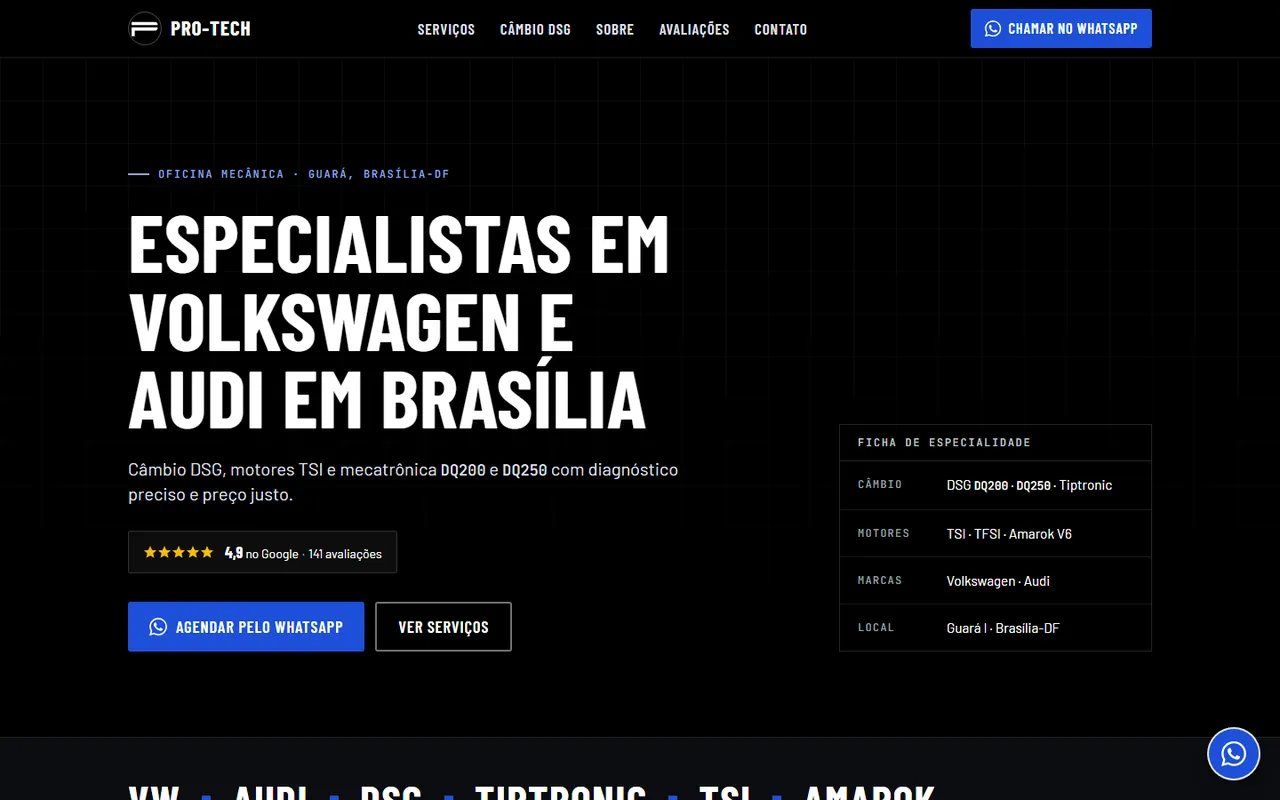
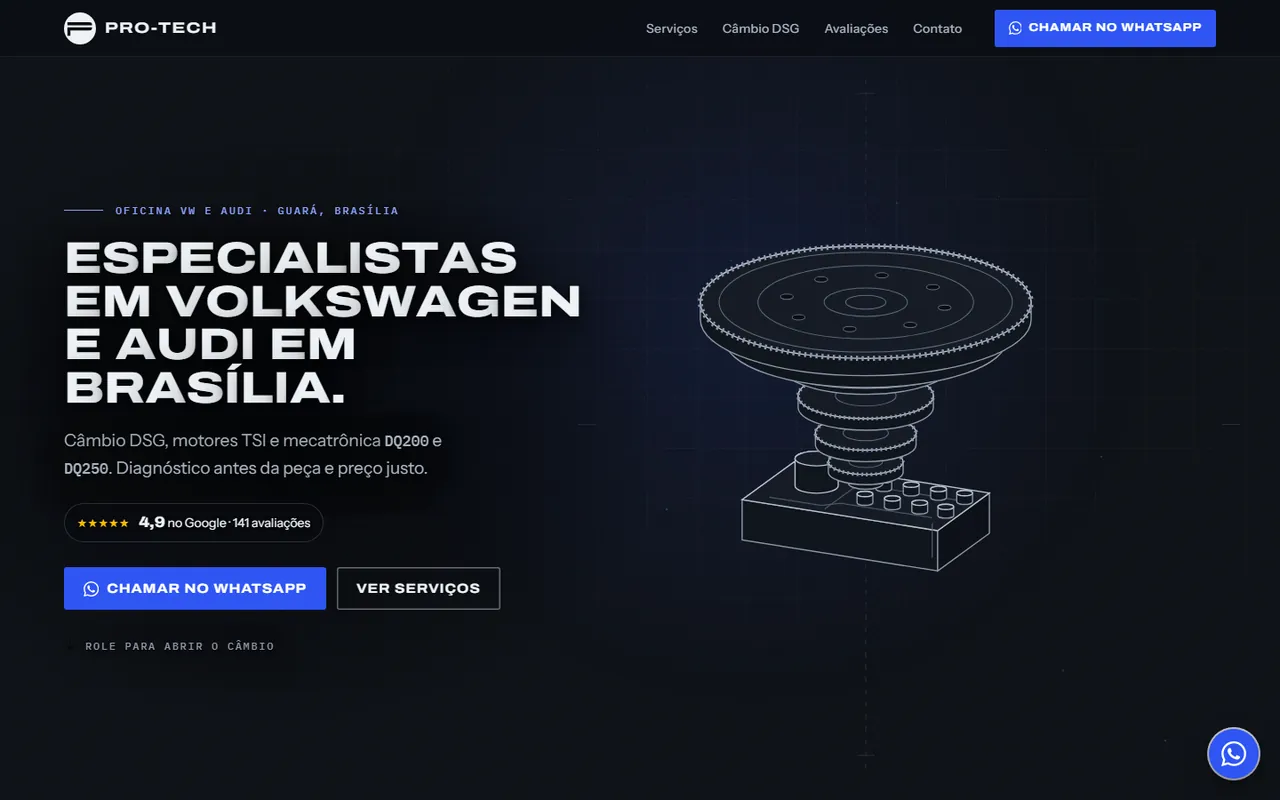
Atualiza o projeto PRO-TECH para a versão Site 10K

diff --git a/index.html b/index.html
@@ -380,7 +380,7 @@
             <figure class="projeto__midia projeto__midia--janela">
               <div class="janela">
                 <div class="janela__barra" aria-hidden="true"><span class="janela__pontos"><i></i><i></i><i></i></span><span class="janela__url">site-pro-tech.vercel.app</span></div>
-                <img src="imagens/projetos/protech.webp" width="1280" height="800" loading="lazy" decoding="async" alt="Página inicial do site da PRO-TECH, com o título Especialistas em Volkswagen e Audi em Brasília e um botão para agendar pelo WhatsApp.">
+                <img src="imagens/projetos/protech.webp" width="1280" height="800" loading="lazy" decoding="async" alt="Topo do site da PRO-TECH, com o título Especialistas em Volkswagen e Audi em Brasília e o desenho técnico de um câmbio em vista explodida.">
               </div>
             </figure>
             <div class="projeto__corpo">
@@ -390,7 +390,7 @@
                 <span class="projeto__contexto">Oficina automotiva</span>
               </p>
               <h3 class="projeto__titulo" id="titulo-protech">PRO-TECH</h3>
-              <p class="projeto__resumo">Site institucional para uma oficina especializada em Volkswagen e Audi em Brasília.</p>
+              <p class="projeto__resumo">Site de uma página para uma oficina especializada em Volkswagen e Audi em Brasília, com uma animação guiada pela rolagem.</p>
               <dl class="caso">
                 <div class="caso__item">
                   <dt>Problema</dt>
@@ -398,19 +398,19 @@
                 </div>
                 <div class="caso__item">
                   <dt>O que fiz</dt>
-                  <dd>Montei o site com Astro, Tailwind CSS e TypeScript, com páginas geradas a partir de dados tipados e um sistema de design com tokens.</dd>
+                  <dd>Criei a página em HTML, CSS e JavaScript puro, sem framework nem build. No topo, um câmbio DSG desenhado em traço técnico se desmonta conforme a rolagem até destacar a peça com defeito. Abaixo, tudo leva a uma só ação: mandar o sintoma pelo WhatsApp.</dd>
                 </div>
                 <div class="caso__item">
                   <dt>Resultado</dt>
-                  <dd>Layout responsivo testado com Playwright em seis larguras de tela, acessibilidade WCAG AA e nota 100/100 no Lighthouse.</dd>
+                  <dd>Nota 100 no Lighthouse nas quatro categorias, no celular e no computador, com cerca de 112 KB no total, porque a animação é desenhada em código, sem vídeo. Funciona com movimento reduzido e sem JavaScript.</dd>
                 </div>
               </dl>
               <ul class="tags" aria-label="Tecnologias principais">
-                <li>Astro</li><li>Tailwind CSS</li><li>TypeScript</li><li>Playwright</li>
+                <li>HTML</li><li>CSS</li><li>JavaScript</li><li>SEO local</li>
               </ul>
               <p class="projeto__links">
                 <a class="botao botao--primario" href="https://site-pro-tech.vercel.app/" target="_blank" rel="noopener noreferrer">Ver demonstração<svg class="icone" aria-hidden="true" viewBox="0 0 16 16" width="16" height="16"><path d="M5 3h8v8M13 3 3 13" fill="none" stroke="currentColor" stroke-width="1.6"/></svg><span class="sr-only">do site da PRO-TECH (abre em nova aba)</span></a>
-                <a class="botao botao--secundario" href="https://github.com/GSHolanda/site_ProTech" target="_blank" rel="noopener noreferrer">Ver código<svg class="icone" aria-hidden="true" viewBox="0 0 16 16" width="16" height="16"><path d="M5 3h8v8M13 3 3 13" fill="none" stroke="currentColor" stroke-width="1.6"/></svg><span class="sr-only">da PRO-TECH no GitHub (abre em nova aba)</span></a>
+                <a class="botao botao--secundario" href="https://github.com/GSHolanda/site_ProTech/tree/claude/site-10k" target="_blank" rel="noopener noreferrer">Ver código<svg class="icone" aria-hidden="true" viewBox="0 0 16 16" width="16" height="16"><path d="M5 3h8v8M13 3 3 13" fill="none" stroke="currentColor" stroke-width="1.6"/></svg><span class="sr-only">da PRO-TECH no GitHub (abre em nova aba)</span></a>
               </p>
             </div>
           </article>
